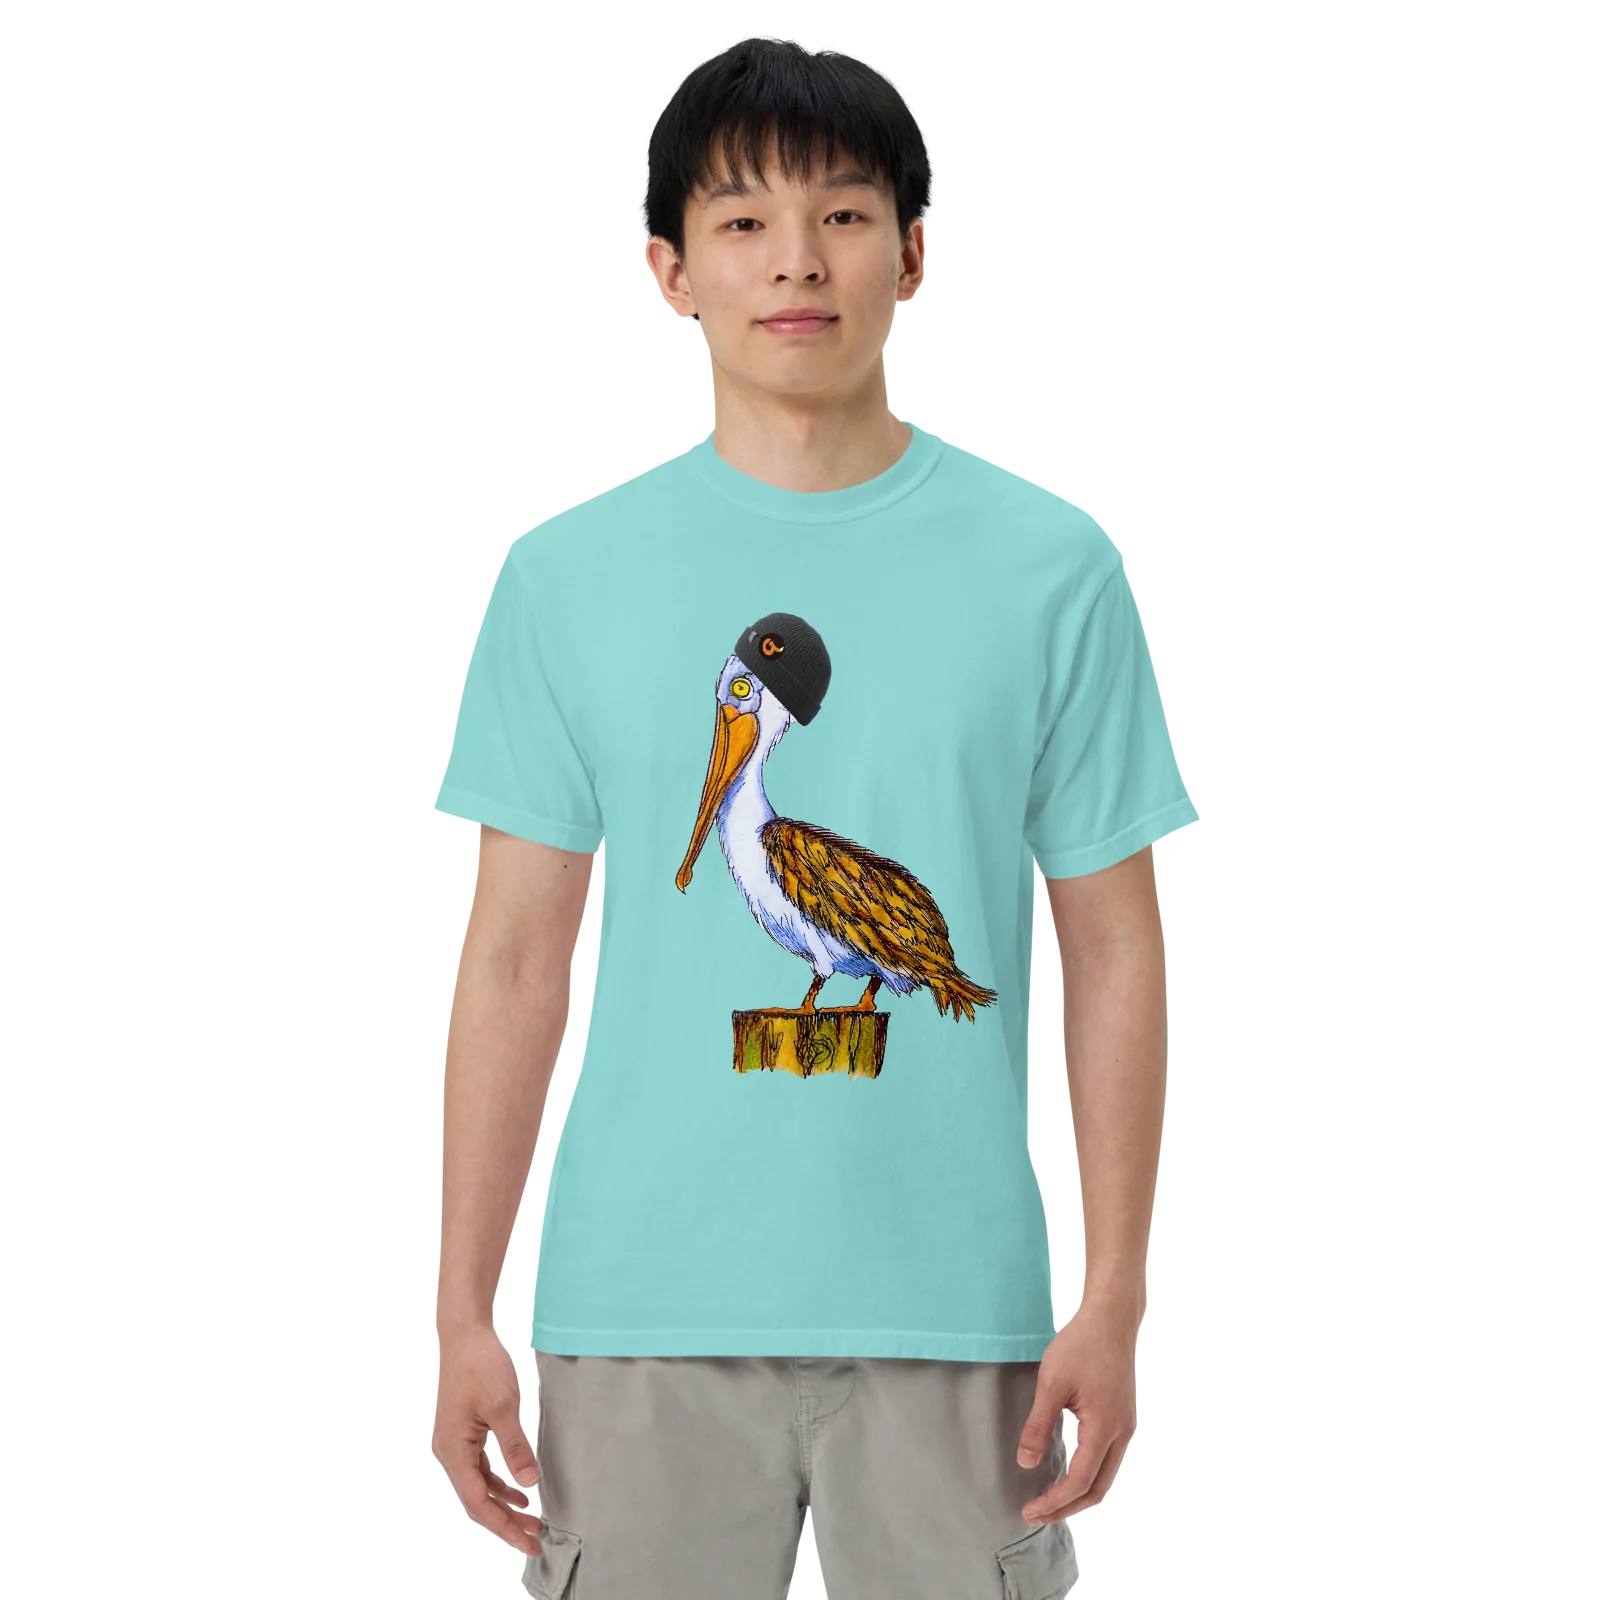
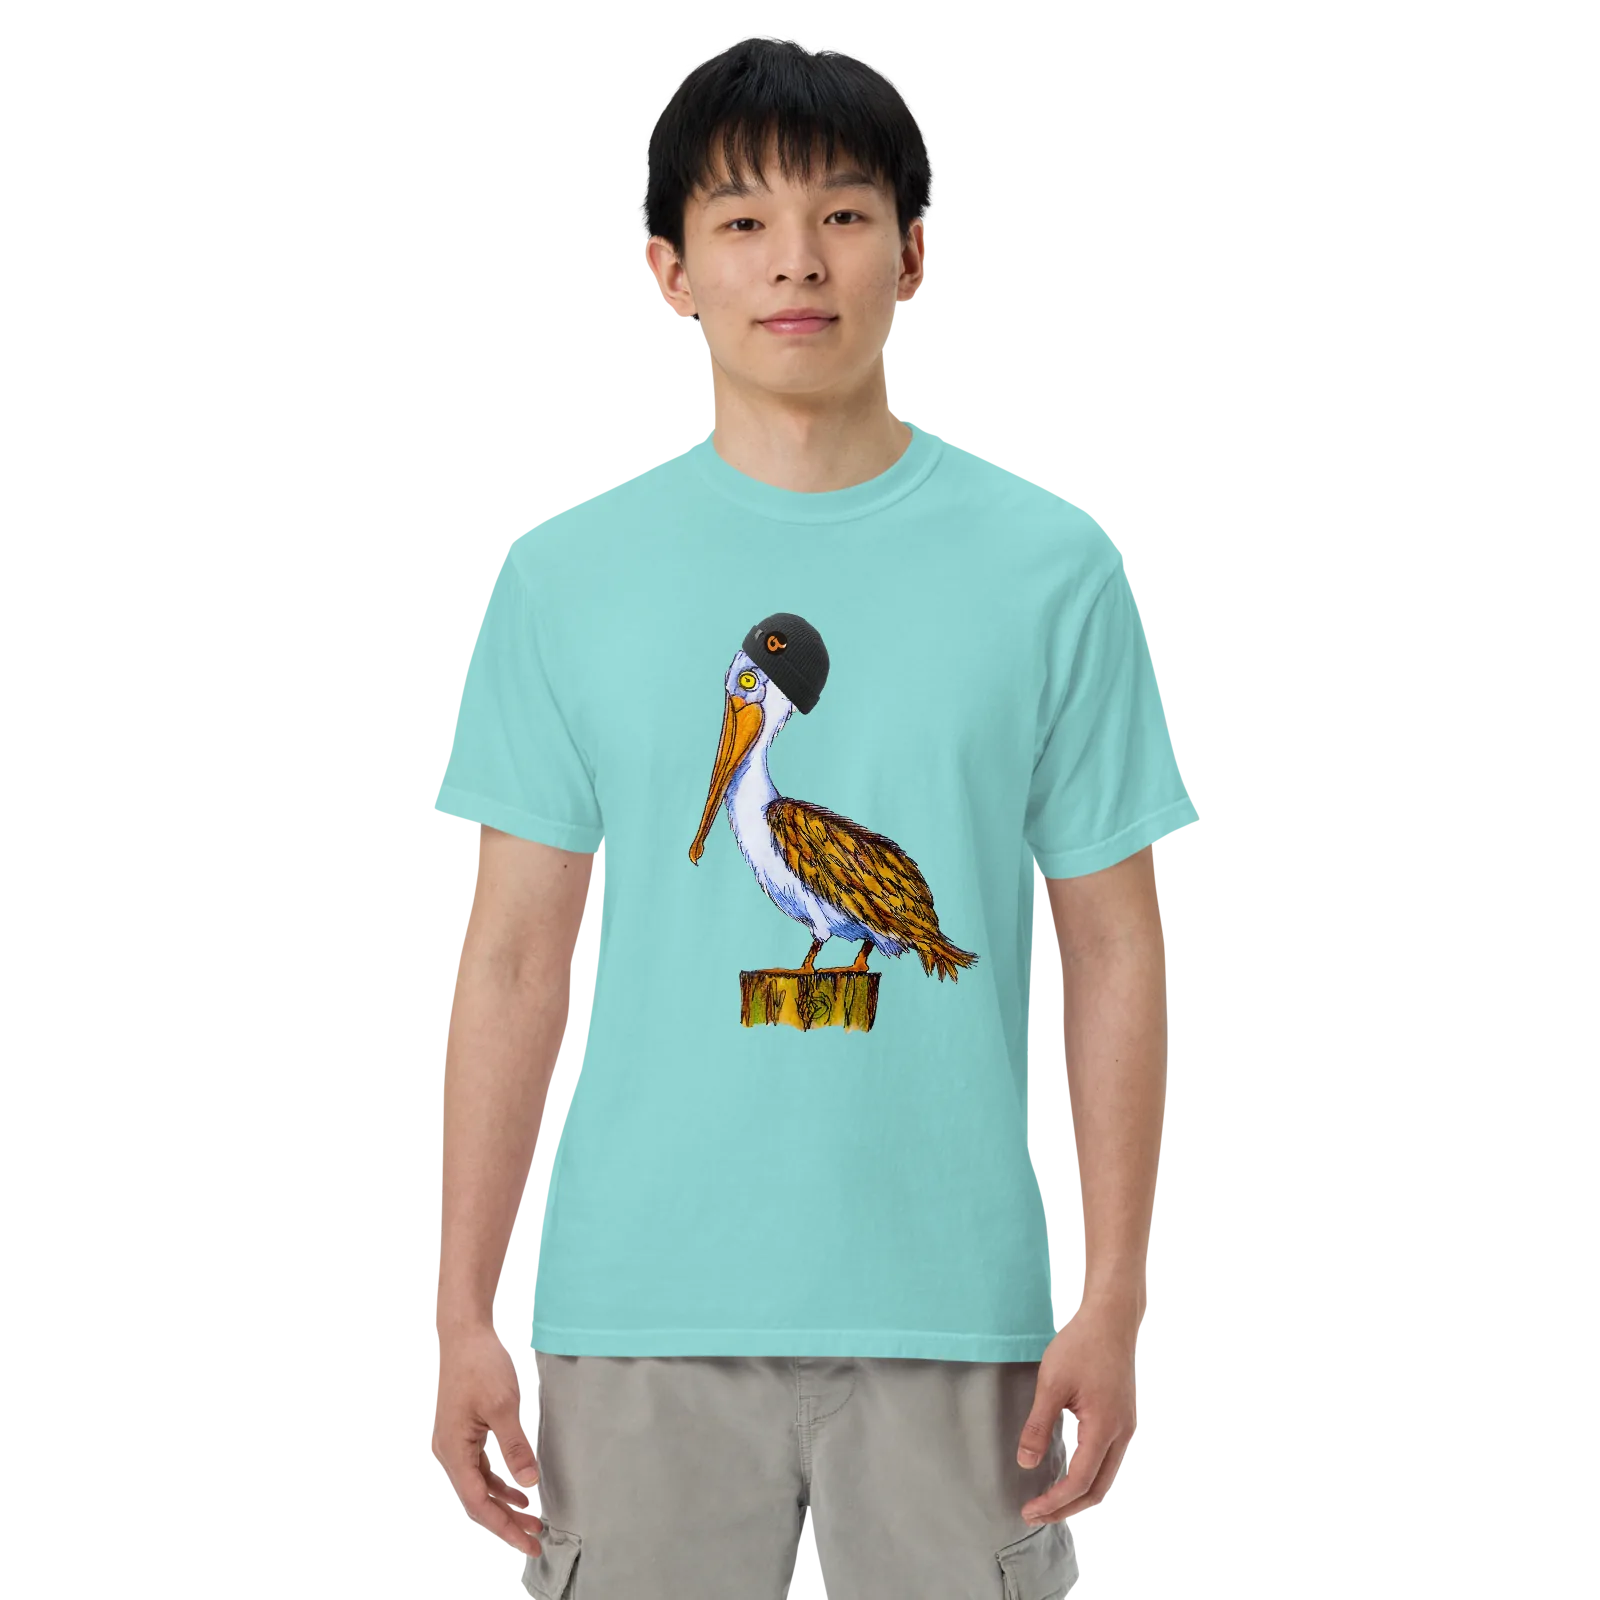
feat(catalog): large pelican at 90% — regenerated from the updated Printful catalog (same products/variants, new mockups)

Changed region(s): [[0.4062, 0.375, 0.625, 0.6875]]

diff --git a/lib/catalog/products.generated.ts b/lib/catalog/products.generated.ts
@@ -1,9 +1,9 @@
-// GENERATED by scripts/gen-catalog.mjs from catalog.json (generated_at 2026-10-12T14:29:47+00:00).
+// GENERATED by scripts/gen-catalog.mjs from catalog.json (generated_at 2026-10-12T14:53:33+00:00).
 // Do not edit by hand: change catalog.json and re-run the script.
 // Options, prices, images and credits for the pages and checkout.
 import type { CatalogProduct } from "./types.ts";
 
-export const catalogGeneratedAt = "2026-10-12T14:29:47+00:00";
+export const catalogGeneratedAt = "2026-10-12T14:53:33+00:00";
 /** True for a hand-made test catalog: never commit or deploy one. */
 export const catalogIsSample = false;
 

diff --git a/lib/catalog/fulfilment.generated.ts b/lib/catalog/fulfilment.generated.ts
@@ -1,4 +1,4 @@
-// GENERATED by scripts/gen-catalog.mjs from catalog.json (generated_at 2026-10-12T14:29:47+00:00).
+// GENERATED by scripts/gen-catalog.mjs from catalog.json (generated_at 2026-10-12T14:53:33+00:00).
 // Do not edit by hand: change catalog.json and re-run the script.
 // Server only: Printful sync variant ids (by variant key, see variantKey()) and royalty rules.
 import type { FulfilmentEntry } from "./types.ts";
